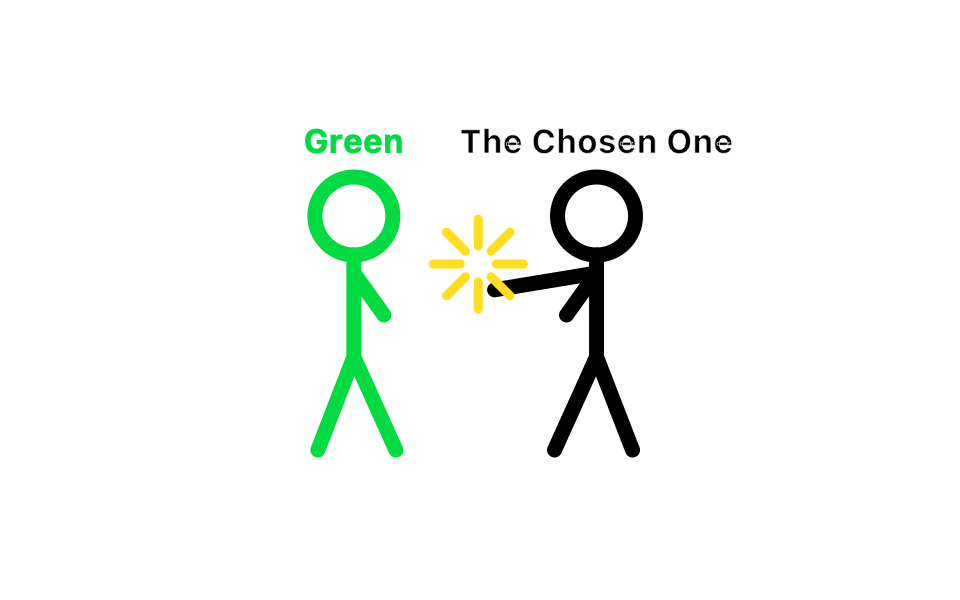
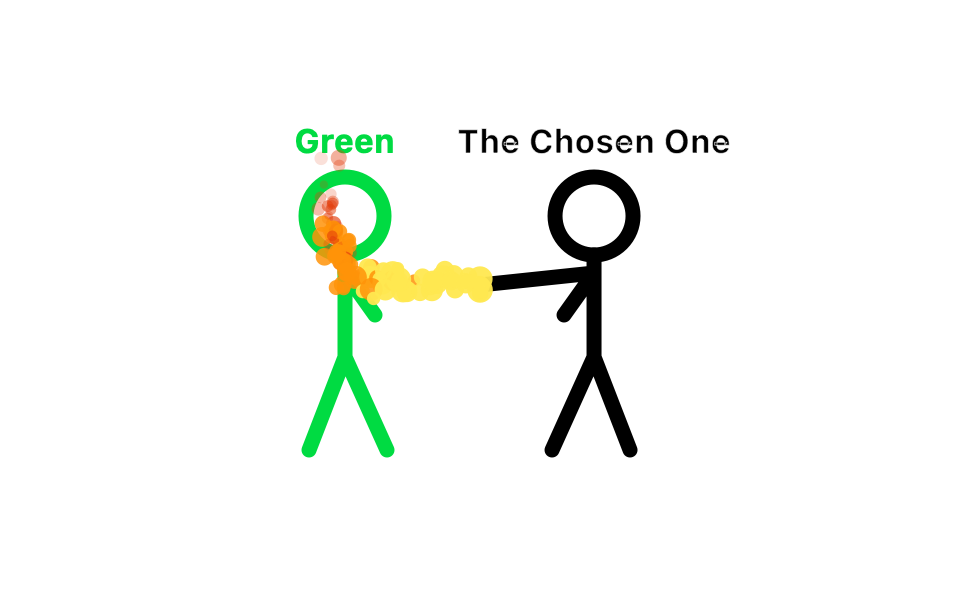
The Chosen One fights with fire

diff --git a/Green.swift b/Green.swift
@@ -37,6 +37,17 @@ final class Figure {
 private func lerp(_ a: CGFloat, _ b: CGFloat, _ t: CGFloat) -> CGFloat { a + (b - a) * t }
 private func sign(_ v: CGFloat) -> CGFloat { v < 0 ? -1 : 1 }
 
+/// One piece of flame. They are made at the Chosen One's hand and drift off, shrinking and cooling.
+struct Spark {
+    var x: CGFloat
+    var y: CGFloat
+    var vx: CGFloat
+    var vy: CGFloat
+    var life: Int
+    let maxLife: Int
+    let size: CGFloat
+}
+
 final class StageView: NSView {
     enum Scene { case solo, approach, fight, aftermath, gap }
 
@@ -68,6 +79,7 @@ final class StageView: NSView {
     private var chosenBase: CGFloat = 0
     private var greenKnock: CGFloat = 0
     private var chosenKnock: CGFloat = 0
+    private var sparks: [Spark] = []
     private var hit: CGFloat = 0                       // how big the "pow" is right now
     private var hitPoint = NSPoint.zero
 
@@ -82,6 +94,7 @@ final class StageView: NSView {
         chosen.alpha = 1
         chosen.pose = Pose()
         hit = 0
+        sparks = []
         switch mode {
         case .stand:
             green.x = w / 2 - 55
@@ -138,6 +151,7 @@ final class StageView: NSView {
         case .fight: break
         }
         let w = bounds.width
+        moveSparks()
         switch scene {
         case .solo:
             walkGreen(width: w)
@@ -212,24 +226,41 @@ final class StageView: NSView {
         let g = green.facing
         hit = max(0, hit - 0.08)
 
-        // The Chosen One: punch, punch, kick, and a big kick at the end.
+        // The Chosen One: fire, a punch, fire, a kick, and then one long blast of fire at the end.
         let cycle = t / 30
         let frac = CGFloat(t % 30) / 30
         let swing = sin(.pi * frac)
         chosen.pose.punch = 0
         chosen.pose.kick = 0
-        if t >= 210 {
-            chosen.pose.kick = swing
-        } else if cycle % 3 == 2 {
-            chosen.pose.kick = swing
+        chosen.pose.punchArm = 1
+        var landed = false
+        if t >= 170 {
+            // the big finish: his arm stays out and the fire keeps coming
+            chosen.pose.punch = min(1, CGFloat(t - 170) / 8)
+            shootFire(amount: 4)
+            landed = t >= 180
         } else {
-            chosen.pose.punchArm = cycle % 3 == 0 ? 1 : -1
-            chosen.pose.punch = swing
-        }
-        let landed = swing > 0.75
-        if landed {
-            hit = 1
-            hitPoint = NSPoint(x: (green.x + chosen.x) / 2, y: ground + (chosen.pose.kick > 0 ? 40 : 62))
+            switch cycle % 4 {
+            case 0, 2:
+                chosen.pose.punch = min(1, swing * 2)
+                if frac > 0.15 && frac < 0.8 { shootFire(amount: 3) }
+                landed = frac > 0.45 && frac < 0.85
+            case 1:
+                chosen.pose.punchArm = -1
+                chosen.pose.punch = swing
+                if swing > 0.75 {
+                    landed = true
+                    hit = 1
+                    hitPoint = NSPoint(x: (green.x + chosen.x) / 2, y: ground + 62)
+                }
+            default:
+                chosen.pose.kick = swing
+                if swing > 0.75 {
+                    landed = true
+                    hit = 1
+                    hitPoint = NSPoint(x: (green.x + chosen.x) / 2, y: ground + 40)
+                }
+            }
         }
 
         // Green fights back, but not as well, and only every other round.
@@ -264,6 +295,14 @@ final class StageView: NSView {
         if t < 28 { green.x -= g * 1.2 }
         if t > 70 { green.alpha = max(0, 1 - CGFloat(t - 70) / 80) }
 
+        // Flames lick up around Green while he lies there.
+        if t < 90 {
+            for _ in 0..<2 {
+                addSpark(x: green.x - g * CGFloat.random(in: 0...60), y: ground + CGFloat.random(in: 2...12),
+                         vx: CGFloat.random(in: -0.3...0.3), vy: CGFloat.random(in: 0.8...2))
+            }
+        }
+
         // The Chosen One cheers, then turns and walks home.
         chosen.pose.punch = 0
         chosen.pose.kick = 0
@@ -289,6 +328,35 @@ final class StageView: NSView {
         }
     }
 
+    private func addSpark(x: CGFloat, y: CGFloat, vx: CGFloat, vy: CGFloat) {
+        let life = Int.random(in: 18...34)
+        sparks.append(Spark(x: x, y: y, vx: vx, vy: vy, life: life, maxLife: life, size: CGFloat.random(in: 5...10)))
+    }
+
+    /// Fire streams out of the Chosen One's outstretched hand toward Green.
+    private func shootFire(amount: Int) {
+        let hand = NSPoint(x: chosen.x + chosen.facing * 38, y: ground + 55)
+        for _ in 0..<amount {
+            addSpark(x: hand.x, y: hand.y + CGFloat.random(in: -3...3),
+                     vx: chosen.facing * CGFloat.random(in: 3.5...5.5), vy: CGFloat.random(in: -0.4...0.7))
+        }
+    }
+
+    private func moveSparks() {
+        for i in sparks.indices {
+            sparks[i].x += sparks[i].vx
+            sparks[i].y += sparks[i].vy
+            sparks[i].vy += 0.04          // flames drift upward
+            sparks[i].life -= 1
+            // When the fire reaches Green it splashes on him and climbs up.
+            if scene == .fight, (green.x - sparks[i].x) * chosen.facing < 4, sparks[i].vx * chosen.facing > 1 {
+                sparks[i].vx *= 0.15
+                sparks[i].vy = CGFloat.random(in: 0.8...2)
+            }
+        }
+        sparks.removeAll { $0.life <= 0 }
+    }
+
     private func bringBackGreen(width w: CGFloat) {
         let side: CGFloat = Bool.random() ? 1 : -1
         green.x = side > 0 ? margin : w - margin
@@ -308,6 +376,7 @@ final class StageView: NSView {
         if green.alpha > 0 { draw(green) }
         if mode != .fight || scene == .approach || scene == .fight || scene == .aftermath { draw(chosen) }
         if hit > 0 { drawBurst(at: hitPoint, size: hit) }
+        drawSparks()
     }
 
     private func draw(_ f: Figure) {
@@ -402,6 +471,23 @@ final class StageView: NSView {
             let label = NSAttributedString(string: f.name, attributes: attributes)
             let size = label.size()
             label.draw(at: NSPoint(x: f.x - size.width / 2, y: headCenter.y + headRadius + 5))
+        }
+    }
+
+    private func drawSparks() {
+        for sp in sparks {
+            let age = 1 - CGFloat(sp.life) / CGFloat(sp.maxLife)   // 0 = new, 1 = about to go out
+            let color: NSColor
+            if age < 0.3 {
+                color = NSColor(calibratedRed: 1, green: 0.9, blue: 0.25, alpha: 0.95)
+            } else if age < 0.65 {
+                color = NSColor(calibratedRed: 1, green: 0.5, blue: 0.05, alpha: 0.85)
+            } else {
+                color = NSColor(calibratedRed: 0.85, green: 0.15, blue: 0.05, alpha: 0.6 * (1 - age) / 0.35 + 0.1)
+            }
+            color.setFill()
+            let r = sp.size * (1 - 0.55 * age) / 2
+            NSBezierPath(ovalIn: NSRect(x: sp.x - r, y: sp.y - r, width: r * 2, height: r * 2)).fill()
         }
     }
 

diff --git a/README.md b/README.md
@@ -6,11 +6,11 @@ and your mouse goes straight through him.
 ![Green and the Chosen One fighting](fight.png)
 
 By default, Green and the Chosen One (the black stick figure) fight in the middle of
-your screen. The Chosen One wins, and then it starts over.
+your screen. The Chosen One fights with fire, and he wins. Then it starts over.
 
 Click **Green** in the menu bar to pick how they act:
 
-- **Fight**: they fight right away. The Chosen One wins, cheers, and walks home. A few seconds later he comes back and they fight again.
+- **Fight**: they fight right away. The Chosen One shoots fire at Green, and throws a punch and a kick too. He wins, cheers, and walks home. A few seconds later he comes back and they fight again.
 - **Walk together**: both walk across the middle of your screen.
 - **Stand in the middle**: both stand still.
 
